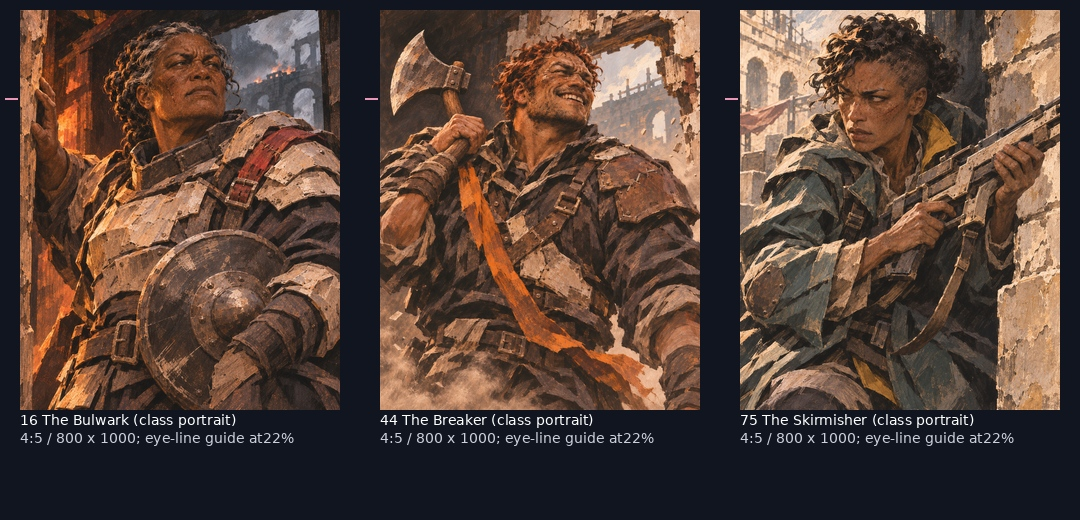
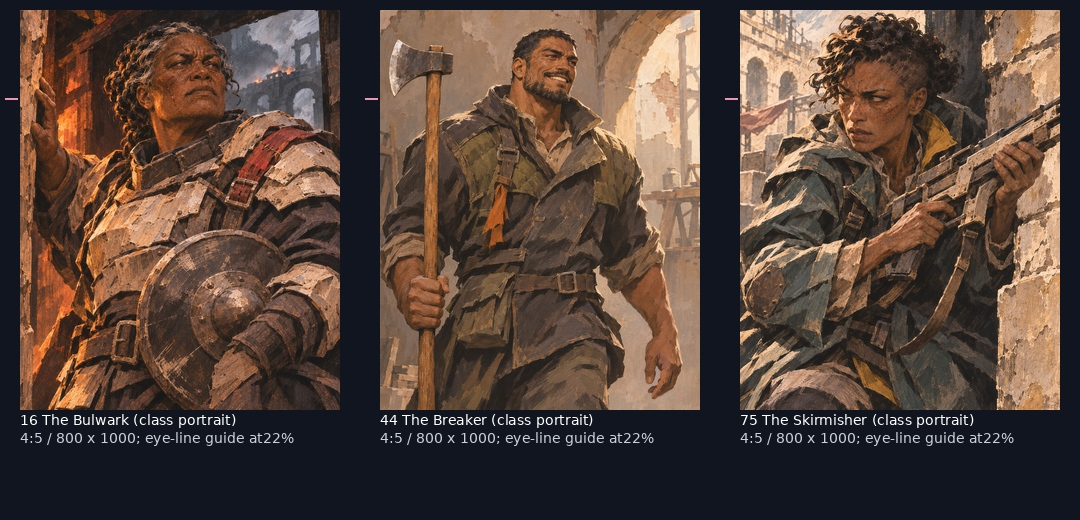
Deliver Nine Doors candidates 44; 316 legacy candidates total

Changed region(s): [[0.3361, 0.0, 0.6722, 0.8]]

diff --git a/art/_archive/nine-doors/2026-11-16/USER-CORRECTIONS.md b/art/_archive/nine-doors/2026-11-16/USER-CORRECTIONS.md
@@ -1,0 +1,9 @@
+# User art corrections
+
+- Wick is the approved ceramic pixel-screen automaton. The Mind Without Fog bowl/cup belongs only to that trait; never use it as default anatomy or decoration.
+- All 28 legacy hold recipes remain enforced, including already-delivered Palm #258. The authorized 0.30 replacements use their new rules.
+- Breaker portrait #44: the user rejected the first axe as X-shaped, then rejected the local axe edit as physically impossible and explicitly required a whole new image from scratch before continuing. Both rejected versions remain in `superseded/044-axe-head-geometry-fix/` and `superseded/044-rejected-axe-correction/`.
+- The active #44 is a fresh composition generated without any prior portrait as an image reference: a new fighter carrying one conventional single-bit axe upright beside the body. Its straight haft is visibly continuous through the gripping hand and the head socket. This deliberately replaces the old shoulder-carry staging. Use the active record and native render; do not reactivate either rejected portrait or copy their weapon geometry.
+- Check physical equipment construction, grip/contact, number of parts and support in the full image and the card preview. A technically valid export is insufficient evidence of visual correctness.
+
+Corrections and delivery remain review candidates; no user approval is implied.

diff --git a/art/_archive/nine-doors/2026-11-16/superseded/044-rejected-axe-correction/REJECTION.md b/art/_archive/nine-doors/2026-11-16/superseded/044-rejected-axe-correction/REJECTION.md
@@ -1,0 +1,1 @@
+User rejected the corrected image as physically impossible and explicitly requested a completely new portrait from scratch before other artwork. Do not reuse this composition.
